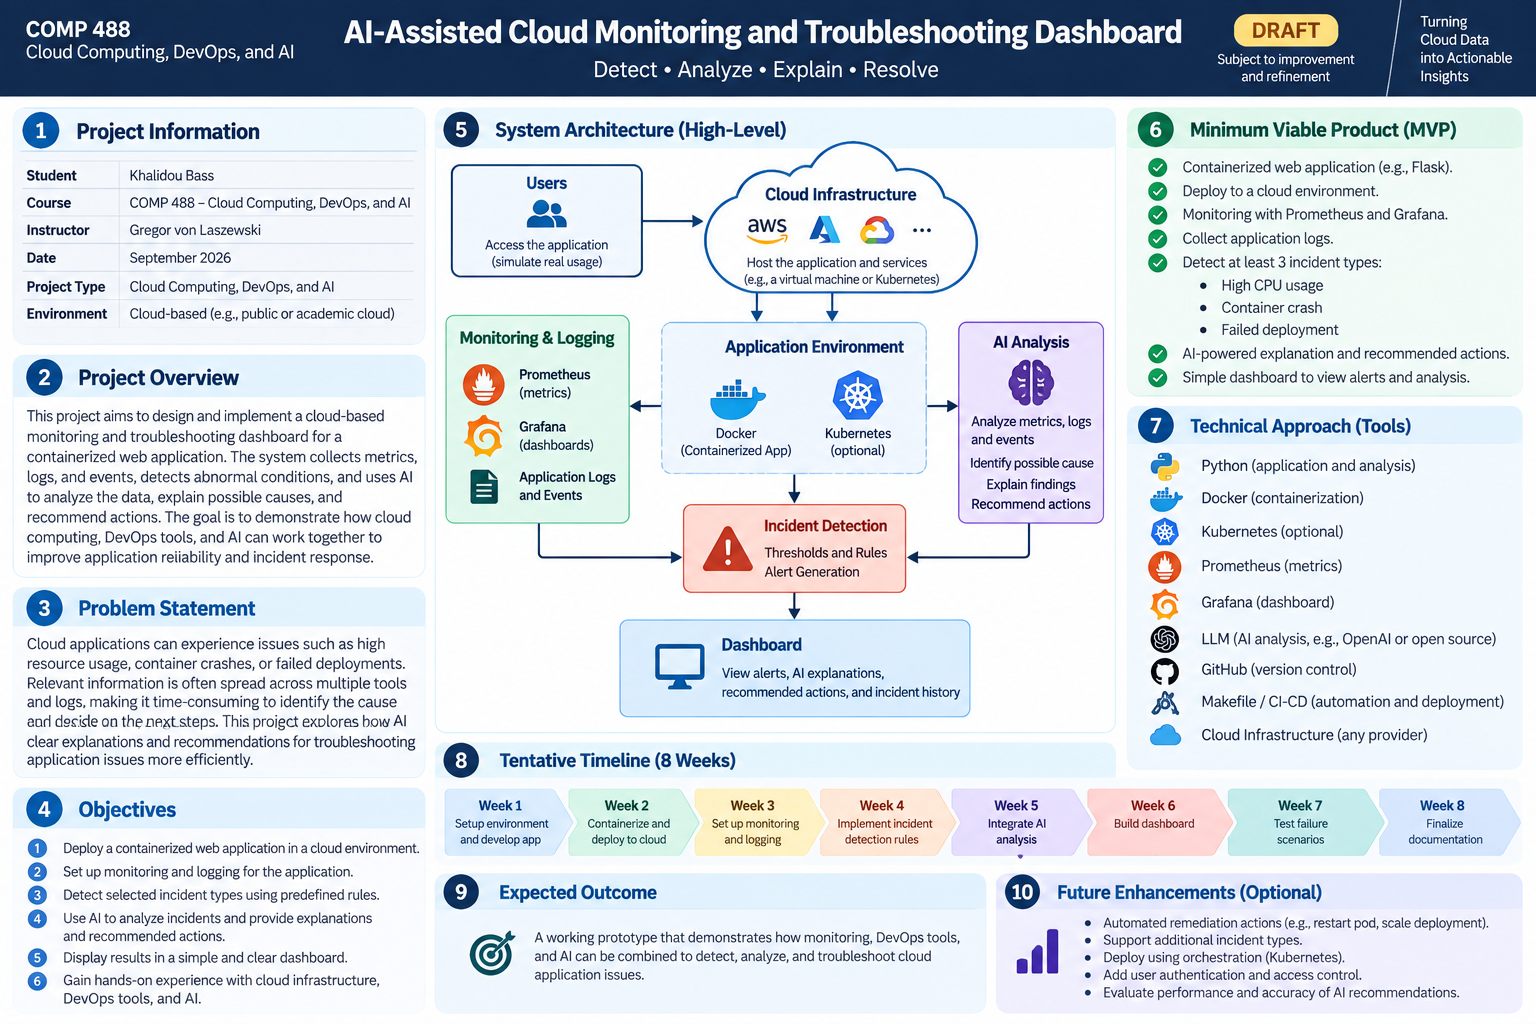
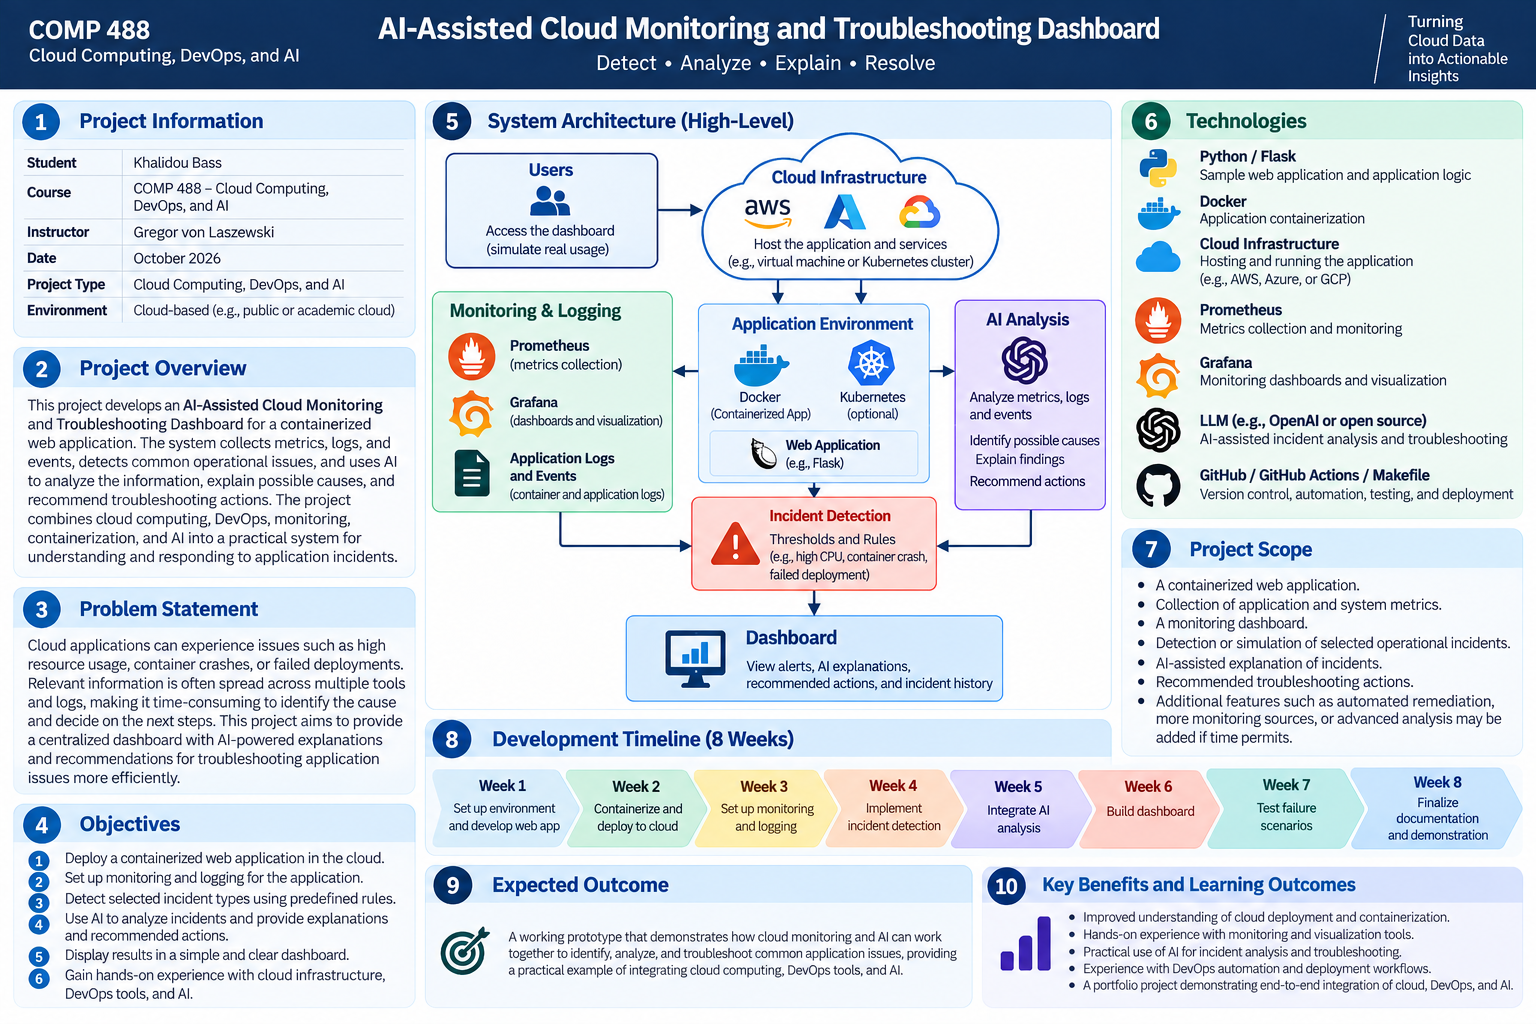
Finalize approved project proposal

diff --git a/project/project_proposal.md b/project/project_proposal.md
@@ -1,59 +1,72 @@
-
-# Project Proposal (Draft)
+# Project Proposal
 
 ## AI-Assisted Cloud Monitoring and Troubleshooting Dashboard
 
 **Student:** Khalidou Bass  
 **Course:** COMP 488 – Cloud Computing, DevOps, and AI  
 **Instructor:** Gregor von Laszewski  
-**Date:** September 2026  
-**Status:** Initial idea – open to feedback and refinement
+**Date:** October 2026
+**Status:** Approved Project
 
 ## 1. Project Overview
 
-This is an initial project idea that came to mind while exploring possible topics for the course. I am still considering other ideas, but for now, I would like to explore developing an **AI-Assisted Cloud Monitoring and Troubleshooting Dashboard**.
+The goal of this project is to develop an **AI-Assisted Cloud Monitoring and Troubleshooting Dashboard** that monitors a containerized web application, detects common operational issues, and uses AI to help explain possible causes and recommend troubleshooting actions.
 
-The goal is to build a simple cloud-based application that monitors a containerized web application, detects common operational issues, and uses AI to help explain possible causes and recommend troubleshooting actions.
-
-The project would combine cloud computing, DevOps, monitoring, and AI into a practical system for understanding and responding to application incidents.
+The project combines cloud computing, DevOps, monitoring, containerization, automation, and AI into a practical system for understanding and responding to application incidents.
 
 ## 2. Proposed System
 
-The system would follow a simple workflow:
+The system will follow this workflow:
 
 1. Deploy a containerized web application to a cloud environment.
-2. Monitor application performance and collect relevant logs.
-3. Detect selected incidents, such as high CPU usage, container crashes, or failed deployments.
-4. Use an AI component to analyze the available information and suggest possible causes.
-5. Display alerts, explanations, and recommended actions through a dashboard.
+2. Monitor application performance and collect relevant metrics and logs.
+3. Detect selected incidents, such as high CPU usage, container crashes, or application/deployment failures.
+4. Use an AI component to analyze the available monitoring information and suggest possible causes.
+5. Display alerts, AI-generated explanations, and recommended troubleshooting actions through a dashboard.
 
-![Proposed System Architecture](images/project-overview.png)
+![Proposed System Architecture](../images/project-overview.png)
 
-## 3. Proposed Technologies
+## 3. Technologies
 
-The technologies I am considering include:
+The project is expected to use:
 
-- **Python / Flask:** Sample web application and analysis logic.
+- **Python / Flask:** Sample web application and application logic.
 - **Docker:** Application containerization.
-- **Cloud Infrastructure:** Hosting and managing the application.
-- **Prometheus and Grafana:** Monitoring and visualization.
-- **LLM:** AI-assisted incident analysis and troubleshooting.
-- **GitHub / GitHub Actions / Makefile:** Version control and deployment automation.
+- **Cloud Infrastructure:** Hosting and running the application.
+- **Prometheus:** Metrics collection and monitoring.
+- **Grafana:** Monitoring dashboards and visualization.
+- **LLM:** AI-assisted incident analysis and troubleshooting recommendations.
+- **GitHub / GitHub Actions / Makefile:** Version control, automation, testing, and deployment workflows.
 
-The specific cloud provider and final technology stack have not yet been decided.
+The final cloud deployment environment and specific AI integration will be selected during implementation based on project requirements and available resources.
 
 ## 4. Expected Outcome
 
-The expected outcome is a working prototype demonstrating how cloud monitoring tools and AI can work together to detect, analyze, and troubleshoot common application issues.
+The expected outcome is a working prototype demonstrating how cloud monitoring and AI can work together to identify, analyze, and troubleshoot common application issues.
 
-The project would also provide hands-on experience with cloud deployment, containerization, monitoring, automation, and AI integration.
+The prototype will demonstrate a basic end-to-end workflow:
 
-## 5. Tentative Timeline
+**Application → Monitoring → Incident Detection → AI Analysis → Troubleshooting Recommendation**
 
-I expect to have approximately **6–8 weeks** to develop and demonstrate the project.
+The project will also provide practical experience with cloud deployment, containerization, monitoring, DevOps automation, and AI integration.
 
-The initial focus would be on a small working prototype. Additional features, such as automated remediation or more advanced monitoring, could be considered if time permits.
+## 5. Project Scope
 
----
+The primary goal is to complete a reliable end-to-end prototype rather than build a production-scale monitoring platform.
 
-**Note:** This is my current project idea, and I am still exploring other possibilities. I would appreciate any feedback or suggestions on this direction.
+The core implementation will focus on:
+
+- A containerized web application.
+- Collection of application and system metrics.
+- A monitoring dashboard.
+- Detection or simulation of selected operational incidents.
+- AI-assisted explanation of incidents.
+- Recommended troubleshooting actions.
+
+Advanced features such as automated remediation, additional monitoring sources, or more sophisticated incident analysis may be added if time permits.
+
+## 6. Development Timeline
+
+The project will be developed incrementally during the remainder of the semester.
+
+The implementation will progress from the basic containerized application to monitoring and visualization, followed by incident detection and AI-assisted troubleshooting. The final stage will focus on integration, testing, documentation, and demonstration.
